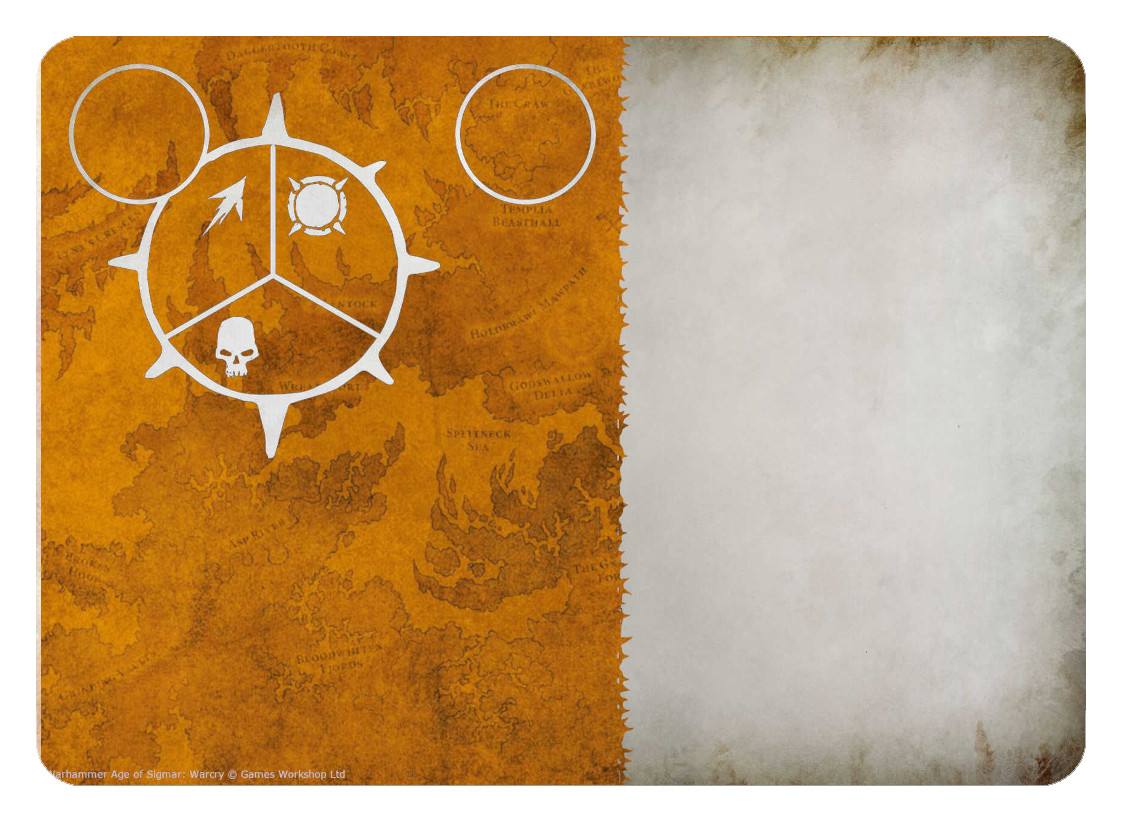
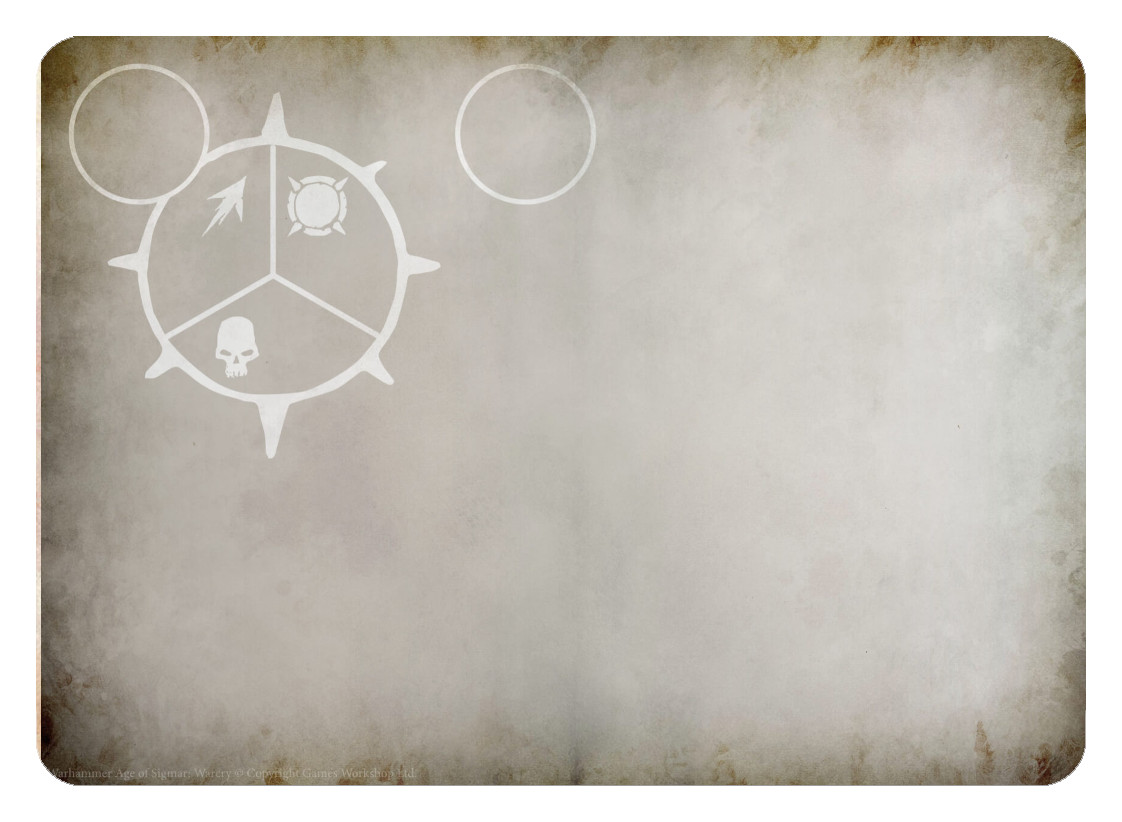
Some changes to the format, mostly black lining for elements

diff --git a/assets/js/fighters.js b/assets/js/fighters.js
@@ -67,8 +67,31 @@ getBackgroundImage = function () {
 }
 
 drawBackground = function () {
-    getContext().drawImage(
-        getBackgroundImage(), 0, 0, getCanvas().width, getCanvas().height);
+    getContext().drawImage(getBackgroundImage(), 0, 0, getCanvas().width, getCanvas().height);
+
+
+    // draw some black background circles to get a smooth look
+    startX = 454;
+    startY = 62;
+    // black border
+    var img = $("#circle_black")[0];
+    var position = scalePixelPosition({ x: startX, y: startY });
+    var size = scalePixelPosition({ x: 144, y: 144 });
+    getContext().drawImage(img, position.x, position.y, size.x, size.y);
+    // draw some black background circles to get a smooth look
+    startX = 67;
+    startY = 62;
+    // black border
+    var img = $("#circle_black")[0];
+    var position = scalePixelPosition({ x: startX, y: startY });
+    var size = scalePixelPosition({ x: 144, y: 144 });
+    getContext().drawImage(img, position.x, position.y, size.x, size.y);
+
+
+
+    getContext().drawImage(document.getElementById('warcry-fighter-frame'), 0, 0, getCanvas().width, getCanvas().height);
+
+    
 }
 
 
@@ -349,12 +372,16 @@ function drawTagRunemark(index, runemark) {
     var positions = [{ x: 370, y: 400 }, { x: 490, y: 400 }, { x: 430, y: 300 }];
     if (index >= positions.length) return;
 
-    var img = $("#circle")[0];
-
+    var img = $("#circle_black")[0];
     var position = scalePixelPosition(positions[index]);
     var size = scalePixelPosition({ x: 100, y: 100 });
-    getContext().drawImage(img, position.x, position.y, size.x, size.y);
+    getContext().drawImage(img, position.x-2, position.y-2, size.x+4, size.y+4);
 
+    var img = $("#circle")[0];
+    var position = scalePixelPosition(positions[index]);
+    var size = scalePixelPosition({ x: 100, y: 100 });
+
+    getContext().drawImage(img, position.x, position.y, size.x, size.y);
     position = scalePixelPosition({ x: positions[index].x + 10, y: positions[index].y + 10 });
     size = scalePixelPosition({ x: 80, y: 80 });
     drawImageSrc(position, size, runemark);
@@ -642,6 +669,11 @@ function drawDeploymentRunemark(image) {
     // intial points
     startX = 980;
     startY = 50;
+    // black border
+    var img = $("#circle_black")[0];
+    var position = scalePixelPosition({ x: startX, y: startY });
+    var size = scalePixelPosition({ x: 88, y: 88 });
+    getContext().drawImage(img, position.x-1, position.y-1, size.x+2, size.y+2);
     // white border
     var img = $("#circle")[0];
     var position = scalePixelPosition({ x: startX, y: startY });
@@ -665,6 +697,7 @@ render = function (fighterData) {
     console.log(fighterData);
 
     drawBackground();
+
 
     // drawModel(fighterData.imageUrl, fighterData.imageProperties);
 
@@ -768,6 +801,7 @@ render = function (fighterData) {
     }
 
     }
+    drawBorder();
 
 }
 

diff --git a/_includes/fighters/section-background.html b/_includes/fighters/section-background.html
@@ -52,32 +52,32 @@
                 <div class="form-check form-check-inline">
                     <input class="form-check-input" id="bg-07" name="toggle-backgrounds" oninput="onAnyChange()"
                         type="radio">
-                    <label class="form-check-label" for="bg-07">Ghur 1 A</label>
+                    <label class="form-check-label" for="bg-07">Plain</label>
                 </div>
                 <div class="form-check form-check-inline">
                     <input class="form-check-input" id="bg-08" name="toggle-backgrounds" oninput="onAnyChange()"
                         type="radio">
-                    <label class="form-check-label" for="bg-08">Ghur 1 B</label>
+                    <label class="form-check-label" for="bg-08">Shyish</label>
                 </div>
             </div>
             <div class="row">
                 <div class="form-check form-check-inline">
                     <input class="form-check-input" id="bg-09" name="toggle-backgrounds" oninput="onAnyChange()"
                         type="radio">
-                    <label class="form-check-label" for="bg-09">Ghur 2 A</label>
+                    <label class="form-check-label" for="bg-09">Ghur A</label>
                 </div>
 
                 <div class="form-check form-check-inline">
                     <input class="form-check-input" id="bg-10" name="toggle-backgrounds" oninput="onAnyChange()"
                         type="radio">
-                    <label class="form-check-label" for="bg-10">Ghur 2 B</label>
+                    <label class="form-check-label" for="bg-10">Ghur B</label>
                 </div>
             </div>
             <div class="row">
                 <div class="form-check form-check-inline">
                     <input checked class="form-check-input" id="bg-11" name="toggle-backgrounds" oninput="onAnyChange()"
                         type="radio">
-                    <label class="form-check-label" for="bg-11">Ghur 3 A</label>
+                    <label class="form-check-label" for="bg-11">Ghur Default</label>
                 </div>
             </div>
             <div class="row">

diff --git a/_includes/tabs/tabContentFighters.html b/_includes/tabs/tabContentFighters.html
@@ -2,6 +2,7 @@
 
     <div class="col-lg-8">
         <img id="card-border" style="display: none;" src="assets/img/fighters/card-border.png">
+        <img id="warcry-fighter-frame" style="display: none;" src="assets/img/fighters/warcry-fighter-frame.png">
         <img id="bg-dark-102" style="display: none;" src="assets/img/fighters/bg-dark-102.jpg">
         <img id="bg-dark-112" style="display: none;" src="assets/img/fighters/bg-dark-112.jpg">
         <img id="bg-dark-302" style="display: none;" src="assets/img/fighters/bg-dark-302.jpg">
